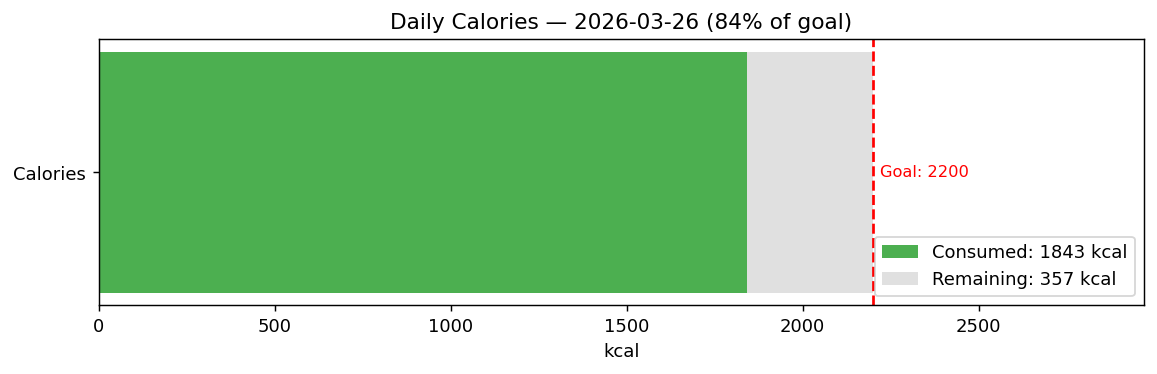
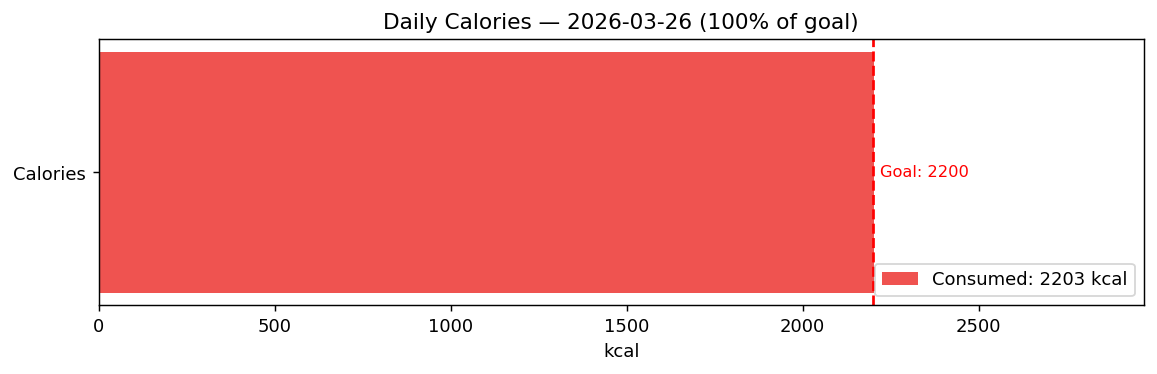
Auto-backup 2026-03-27

diff --git a/health-tracker/logs/food/2026-03-27.md b/health-tracker/logs/food/2026-03-27.md
@@ -1,0 +1,18 @@
+# 2026-03-27 Food Log
+
+## Breakfast
+| Item | Amount | Cals | Protein_g | Carbs_g | Fat_g |
+|------|--------|------|-----------|---------|-------|
+| Grilled chicken breast | 120g | 193 | 36 | 4 | 0 |
+| BBQ sauce (small drizzle) | ~15g | 25 | 0 | 0 | 5 |
+| Baked potato, small | ~120g | 115 | 3 | 0 | 26 |
+| Tea egg | 50g | 60 | 5 | 4 | 1 |
+| Small latte | 200ml | 100 | 5 | 5 | 8 |
+| **Breakfast Total** | | **493** | **49** | **13** | **40** |
+
+## Daily Totals
+| | Fat_g | Protein_g | Carbs_g | Cals |
+|------|-------|-----------|---------|------|
+| **Total** | **13** | **49** | **40** | **493** |
+
+**Goal: 2,200 kcal | Remaining: ~1,707 kcal**

diff --git a/health-tracker/logs/food/2026-03-26.md b/health-tracker/logs/food/2026-03-26.md
@@ -37,9 +37,15 @@
 | 7-11 Red bean bread | 100g | 293 | 7 | 55 | 5 |
 | **Snack Total** | | **293** | **7** | **55** | **5** |
 
+## Dinner
+| Item | Amount | Cals | Protein_g | Carbs_g | Fat_g |
+|------|--------|------|-----------|---------|-------|
+| Mixed sushi nigiri | 8 pieces | 360 | 14 | 64 | 6 |
+| **Dinner Total** | | **360** | **14** | **64** | **6** |
+
 ## Daily Totals
 | | Fat_g | Protein_g | Carbs_g | Cals |
 |------|-------|-----------|---------|------|
-| **Total** | **61** | **92** | **246** | **1843** |
+| **Total** | **67** | **106** | **310** | **2203** |
 
-**Goal: 2,200 kcal | Remaining: ~357 kcal**
+**Goal: 2,200 kcal | Over by: ~3 kcal**
